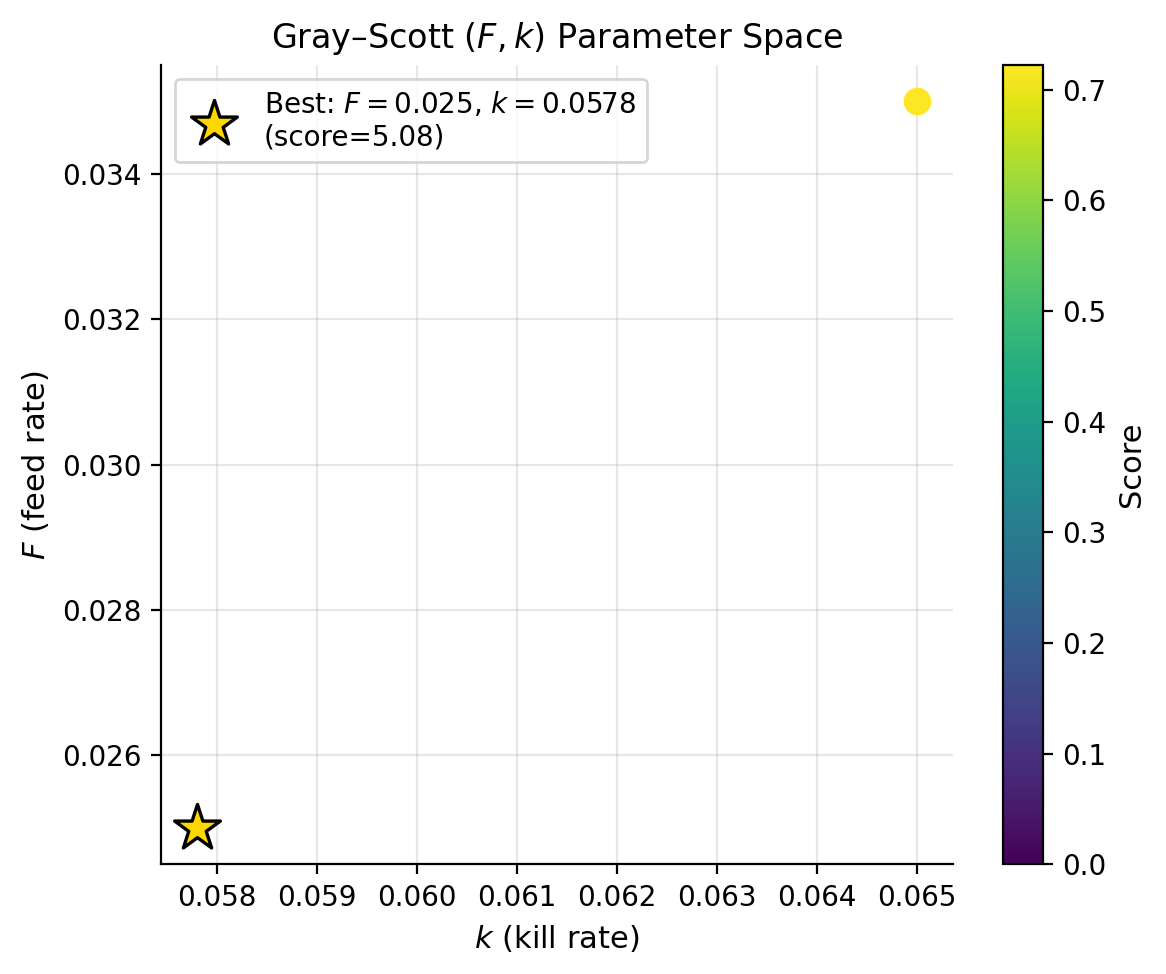
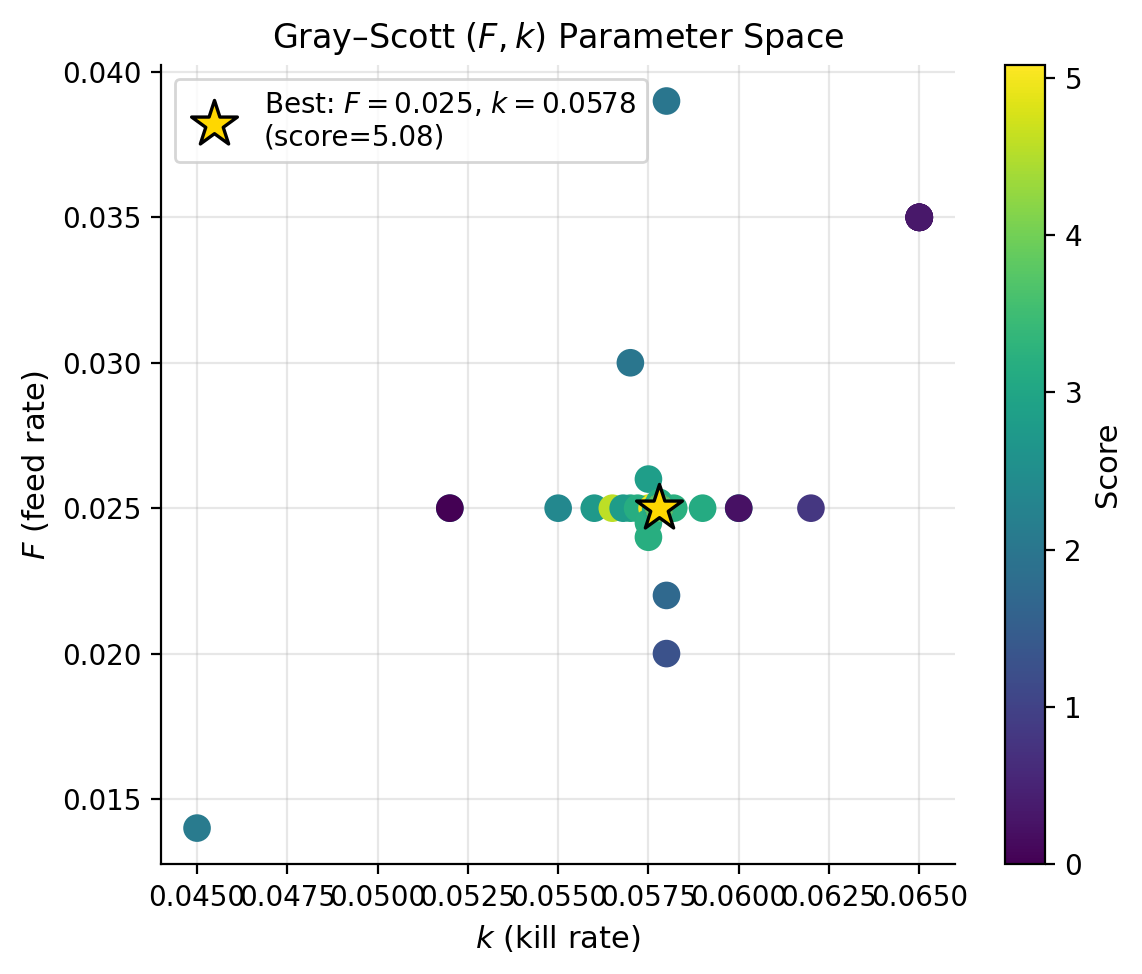
Fix Gray-Scott phase diagram: include all experiments, not just center_seed
The filter was too strict, only matching experiments with
initial_condition='center_seed' explicitly set. Now plots all 43
experiments across the (F,k) parameter space.

diff --git a/paper/make_figures.py b/paper/make_figures.py
@@ -360,13 +360,11 @@ def make_gs_phase_diagram():
     Fs, Ks, Ss = [], [], []
     for e in exps:
         cfg = e.get('config', {})
-        ic = cfg.get('initial_condition', '')
-        if ic == 'center_seed':
-            F_ = cfg.get('F') or cfg.get('f')
-            k_ = cfg.get('k')
-            s  = e.get('score')
-            if F_ is not None and k_ is not None and s is not None:
-                Fs.append(F_); Ks.append(k_); Ss.append(s)
+        F_ = cfg.get('F') or cfg.get('f')
+        k_ = cfg.get('k')
+        s  = e.get('score')
+        if F_ is not None and k_ is not None and s is not None:
+            Fs.append(F_); Ks.append(k_); Ss.append(s)
 
     fig, ax = plt.subplots(figsize=(6, 5))
     sc = ax.scatter(Ks, Fs, c=Ss, cmap='viridis', s=80, zorder=3,
